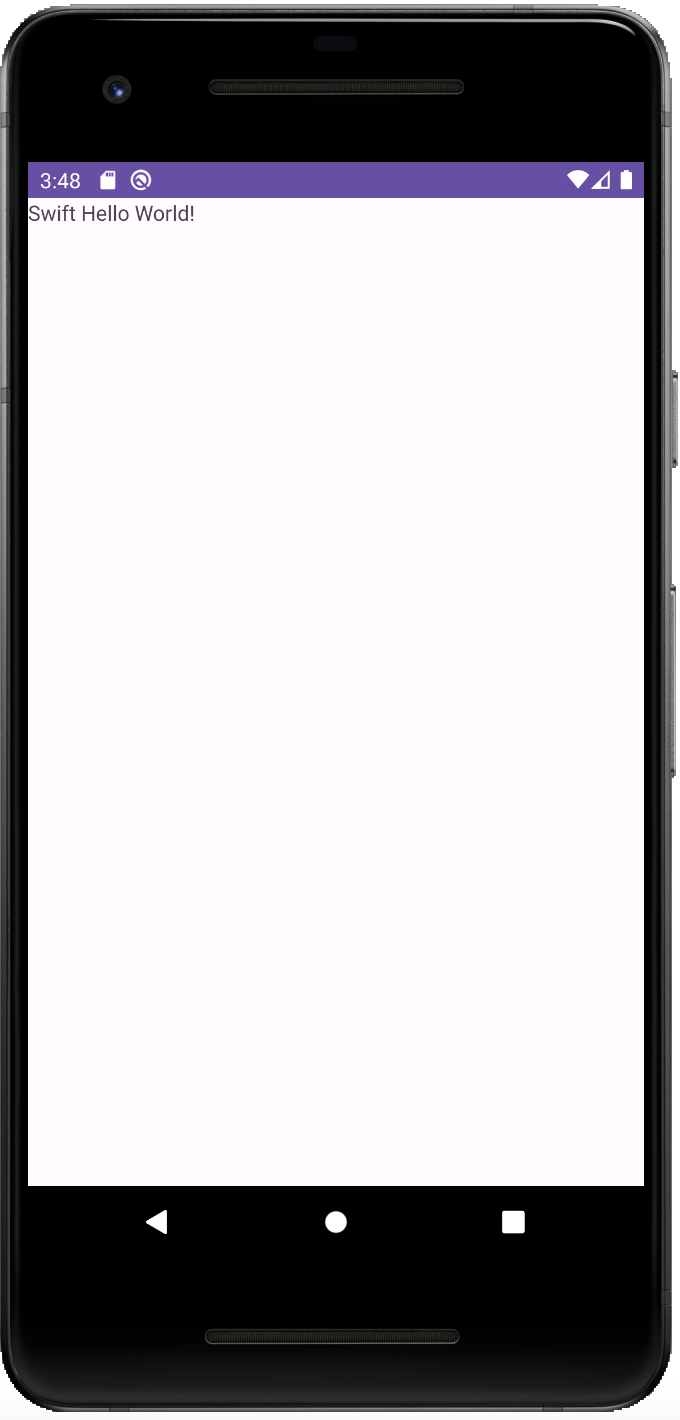
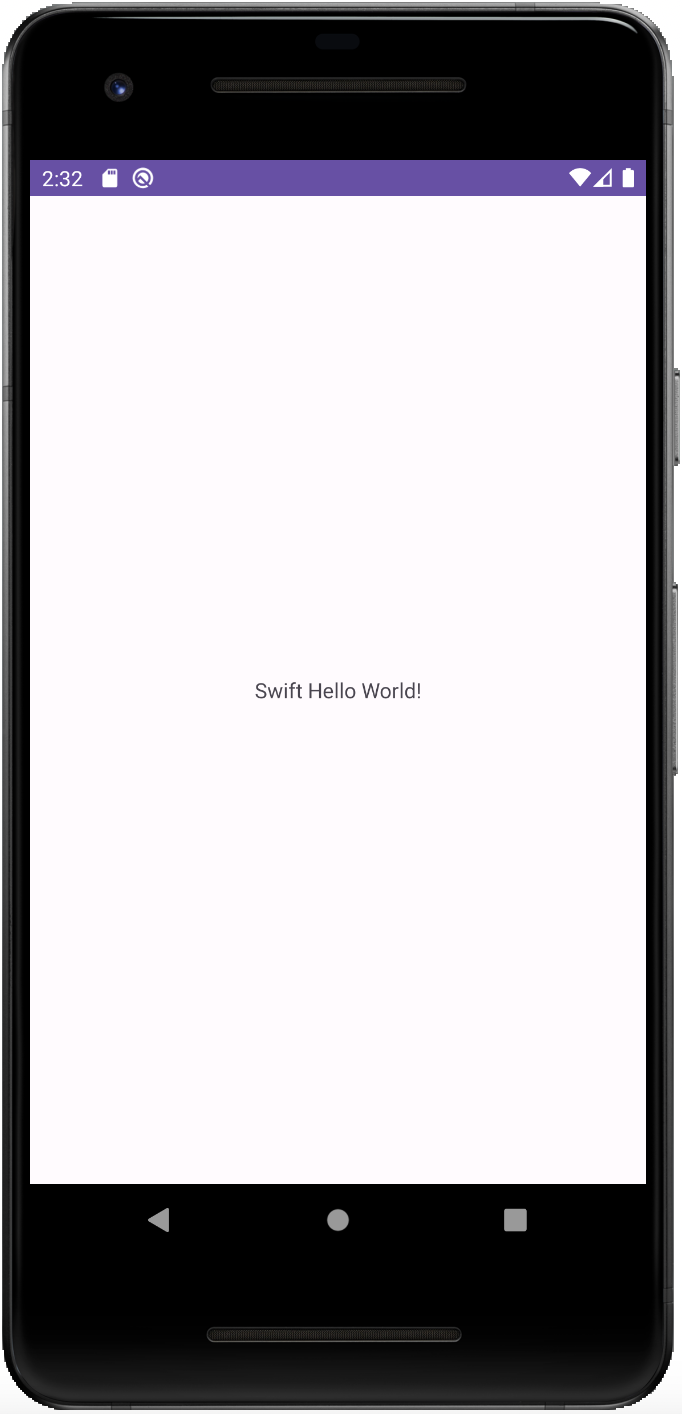
layout hello world text at center of page

diff --git a/docs/getStarted.html b/docs/getStarted.html
@@ -300,6 +300,11 @@ protected void onCreate(Bundle savedInstanceState) {
     // Display the value returned from swift in the text view
     android.widget.TextView text = new android.widget.TextView(this);
     text.setText(msg);
+    text.setGravity(android.view.Gravity.CENTER_VERTICAL |
+                    android.view.Gravity.CENTER_HORIZONTAL);
+    text.setLayoutParams(new android.widget.RelativeLayout.LayoutParams(
+            android.widget.RelativeLayout.LayoutParams.MATCH_PARENT,
+            android.widget.RelativeLayout.LayoutParams.MATCH_PARENT));
     setContentView(text);
 }
 </code></pre>
